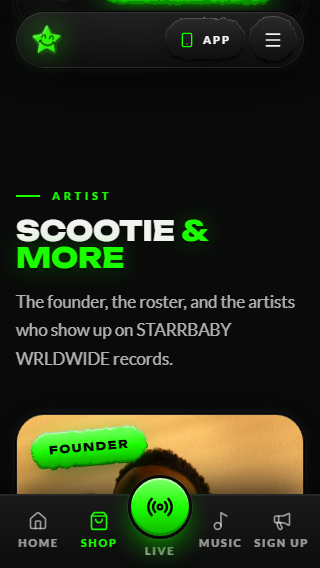
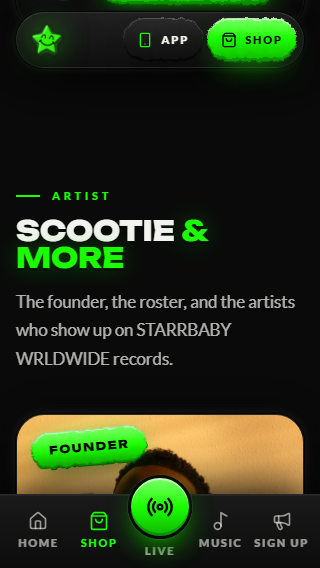
Phone header: App plus Shop, no menu; footer section list only from lg; star shows through the sign up panel; milestones and show merch card removed

Changed region(s): [[0.5, 0.0299, 0.9375, 0.1496], [0.4375, 0.0299, 0.4688, 0.0898]]

diff --git a/src/components/Products.tsx b/src/components/Products.tsx
@@ -1,21 +1,12 @@
 import { useCallback, useMemo, useState } from "react";
-import { ArrowRight, Heart, LayoutGrid, Ruler, Search, Shirt, Sparkles, SwatchBook, Tag } from "lucide-react";
-import { money, shopProducts, showMerch, type ShopProduct } from "@/data/shop";
+import { ArrowRight, Heart, Ruler, Search, SwatchBook, Tag } from "lucide-react";
+import { money, shopProducts, type ShopProduct } from "@/data/shop";
 import { cn } from "@/lib/utils";
 import { ProductSheet } from "./ProductSheet";
 import { Reveal } from "./Reveal";
 import { SectionHeader } from "./SectionHeader";
 
-type Cat = "all" | "tees" | "show";
-
-const cats: { key: Cat; label: string; icon: typeof Shirt }[] = [
-  { key: "all", label: "All", icon: LayoutGrid },
-  { key: "tees", label: "Tees", icon: Shirt },
-  { key: "show", label: "Show merch", icon: Sparkles },
-];
-
 export function Products() {
-  const [cat, setCat] = useState<Cat>("all");
   const [q, setQ] = useState("");
   const [open, setOpen] = useState<ShopProduct | null>(null);
   const [faves, setFaves] = useState<Set<string>>(() => new Set());
@@ -24,21 +15,8 @@ export function Products() {
 
   const query = q.trim().toLowerCase();
   const list = useMemo(
-    () =>
-      shopProducts.filter((p) => {
-        if (cat === "show") return false;
-        if (cat === "tees" && p.category !== "tees") return false;
-        if (!query) return true;
-        return `${p.name} ${p.collection} ${p.color}`.toLowerCase().includes(query);
-      }),
-    [cat, query],
-  );
-  const showList = useMemo(
-    () =>
-      cat === "tees"
-        ? []
-        : showMerch.filter((m) => !query || `${m.name} ${m.blurb}`.toLowerCase().includes(query)),
-    [cat, query],
+    () => shopProducts.filter((p) => !query || `${p.name} ${p.collection} ${p.color}`.toLowerCase().includes(query)),
+    [query],
   );
   const featured = shopProducts.find((p) => p.featured) ?? shopProducts[0];
 
@@ -66,52 +44,21 @@ export function Products() {
         {/* The shop screen: green felt ground, black plush cards, the featured drop in black glass */}
         <Reveal>
           <div className="neu neu-green overflow-hidden !rounded-[2rem] p-3 sm:!rounded-[2.5rem] sm:p-5 lg:p-8">
-            {/* Top bar: search and categories */}
-            <div className="flex flex-col gap-5 lg:flex-row lg:items-center lg:justify-between">
-              <label className="relative block w-full lg:max-w-md">
-                <span className="sr-only">Search the drop</span>
-                <Search className="pointer-events-none absolute left-4 top-1/2 h-4 w-4 -translate-y-1/2 text-fg/45" aria-hidden="true" />
-                <input
-                  type="search"
-                  value={q}
-                  onChange={(e) => setQ(e.target.value)}
-                  placeholder="Find your piece"
-                  className="neu-in h-12 w-full pl-11 pr-4 text-sm font-semibold"
-                />
-              </label>
-              <div className="no-scrollbar -mx-1 flex gap-3 overflow-x-auto px-1 py-1" role="tablist" aria-label="Categories">
-                {cats.map((c) => {
-                  const Icon = c.icon;
-                  const on = cat === c.key;
-                  return (
-                    <button
-                      key={c.key}
-                      type="button"
-                      role="tab"
-                      aria-selected={on}
-                      onClick={() => setCat(c.key)}
-                      className={cn(
-                        "flex shrink-0 flex-col items-center gap-2 rounded-2xl px-3 py-2 text-[0.7rem] font-extrabold uppercase tracking-[0.14em] transition-colors",
-                        on ? "text-fg" : "text-fg/60 hover:text-fg",
-                      )}
-                    >
-                      <span
-                        className={cn(
-                          "neu-xs neu-round flex h-12 w-12 items-center justify-center transition-[color,transform] duration-200",
-                          on ? "neu-neon text-neon" : "text-fg/75",
-                        )}
-                      >
-                        <Icon className="h-5 w-5" aria-hidden="true" />
-                      </span>
-                      {c.label}
-                    </button>
-                  );
-                })}
-              </div>
-            </div>
+            {/* Search */}
+            <label className="relative block w-full lg:max-w-md">
+              <span className="sr-only">Search the drop</span>
+              <Search className="pointer-events-none absolute left-4 top-1/2 h-4 w-4 -translate-y-1/2 text-fg/45" aria-hidden="true" />
+              <input
+                type="search"
+                value={q}
+                onChange={(e) => setQ(e.target.value)}
+                placeholder="Find your piece"
+                className="neu-in h-12 w-full pl-11 pr-4 text-sm font-semibold"
+              />
+            </label>
 
             {/* Featured drop: black glass in a chrome rim */}
-            {cat !== "show" && !query ? (
+            {!query ? (
               <article className="chrome mt-6">
                 <div className="chrome-face grid grid-cols-1 sm:grid-cols-5">
                   <div className="flex flex-col justify-between gap-6 p-6 sm:col-span-3 sm:p-8">
@@ -162,7 +109,7 @@ export function Products() {
             ) : null}
 
             {/* Product grid */}
-            {list.length + showList.length === 0 ? (
+            {list.length === 0 ? (
               <div className="neu-sm mt-6 p-8 text-center">
                 <p className="font-display text-sm font-extrabold uppercase tracking-wide text-fg">Nothing matches &ldquo;{q}&rdquo;</p>
                 <p className="mt-2 text-sm text-fg/60">Try tee, black, white, or Marked.</p>
@@ -234,33 +181,6 @@ export function Products() {
                     </Reveal>
                   );
                 })}
-
-                {showList.map((m, i) => (
-                  <Reveal key={m.id} index={list.length + i} as="li" className="col-span-2 min-w-0 lg:col-span-4">
-                    <article className="neu-sm grid grid-cols-1 gap-4 p-3 sm:grid-cols-5 sm:p-4">
-                      <div className="well-light overflow-hidden rounded-2xl sm:col-span-3">
-                        <img src={m.image} alt={m.imageAlt} width={1440} height={810} loading="lazy" decoding="async" className="h-full w-full object-cover" />
-                      </div>
-                      <div className="flex flex-col justify-between gap-4 px-1 pb-1 sm:col-span-2 sm:py-2">
-                        <div>
-                          <span className="inline-flex items-center gap-1.5 rounded-full bg-neon px-2.5 py-1 text-[0.7rem] font-extrabold uppercase tracking-[0.14em] text-ink">
-                            <Sparkles className="h-3 w-3" aria-hidden="true" /> Show merch
-                          </span>
-                          <h3 className="font-display mt-3 text-base font-extrabold uppercase leading-tight text-fg sm:text-xl">{m.name}</h3>
-                          <p className="mt-2 text-sm leading-relaxed text-fg/65">{m.blurb}</p>
-                        </div>
-                        <button
-                          type="button"
-                          onClick={() => document.getElementById("signup")?.scrollIntoView({ behavior: "smooth" })}
-                          className="btn3d-neon !min-h-11 !py-2.5 !text-[0.7rem]"
-                        >
-                          Hear about the next drop
-                          <ArrowRight className="h-4 w-4" aria-hidden="true" />
-                        </button>
-                      </div>
-                    </article>
-                  </Reveal>
-                ))}
               </ul>
             )}
 

diff --git a/src/components/Nav.tsx b/src/components/Nav.tsx
@@ -1,5 +1,5 @@
 import { useEffect, useState } from "react";
-import { Menu, ShoppingBag, X } from "lucide-react";
+import { ShoppingBag } from "lucide-react";
 import { nav } from "@/data/site";
 import { InstallApp } from "./InstallApp";
 import { useActiveSection } from "@/hooks/useActiveSection";
@@ -7,8 +7,12 @@ import { cn } from "@/lib/utils";
 
 const ids = nav.map((n) => n.id);
 
+/**
+ * Header. Section links from lg up. Below that there is no menu: phones get
+ * the App button and the green Shop button on the right, and the tab bar at
+ * the bottom carries the jumps (owner, 2026-09-29).
+ */
 export function Nav() {
-  const [open, setOpen] = useState(false);
   const [scrolled, setScrolled] = useState(false);
   const active = useActiveSection(ids);
 
@@ -19,25 +23,11 @@ export function Nav() {
     return () => window.removeEventListener("scroll", onScroll);
   }, []);
 
-  useEffect(() => {
-    if (!open) return;
-    const onKey = (e: KeyboardEvent) => e.key === "Escape" && setOpen(false);
-    window.addEventListener("keydown", onKey);
-    document.body.style.overflow = "hidden";
-    return () => {
-      window.removeEventListener("keydown", onKey);
-      document.body.style.overflow = "";
-    };
-  }, [open]);
-
-  const go = (id: string) => {
-    setOpen(false);
-    document.getElementById(id)?.scrollIntoView({ behavior: "smooth", block: "start" });
-  };
+  const go = (id: string) => document.getElementById(id)?.scrollIntoView({ behavior: "smooth", block: "start" });
 
   return (
-    // The header itself never takes a tap. Only the pill and the open sheet do,
-    // so the fixed box can never sit on top of buttons further down the page.
+    // The header itself never takes a tap. Only the pill does, so the fixed
+    // box can never sit on top of buttons further down the page.
     <header
       className="pointer-events-none fixed inset-x-0 z-50 transition-[top] duration-300"
       style={{ top: "var(--live-h, 0px)" }}
@@ -46,16 +36,13 @@ export function Nav() {
         <div
           className={cn(
             "pointer-events-auto flex h-14 items-center justify-between gap-3 rounded-full px-3 pr-2 transition-[background-color,box-shadow,border-color] duration-300 sm:h-16 sm:px-4 sm:pr-2.5",
-            scrolled || open
-              ? "nav-pill rounded-full backdrop-blur-xl"
-              : "border border-transparent bg-transparent",
+            scrolled ? "nav-pill rounded-full backdrop-blur-xl" : "border border-transparent bg-transparent",
           )}
         >
           <a
             href="#top"
             onClick={(e) => {
               e.preventDefault();
-              setOpen(false);
               window.scrollTo({ top: 0, behavior: "smooth" });
             }}
             className="flex min-w-0 items-center gap-2.5"
@@ -107,59 +94,18 @@ export function Nav() {
             <span className="hidden sm:block">
               <InstallApp />
             </span>
+            <span className="block sm:hidden">
+              <button type="button" onClick={() => go("products")} className="btn3d-neon !min-h-10 !px-3 !py-2 !text-[0.7rem]">
+                <ShoppingBag className="h-4 w-4" aria-hidden="true" />
+                Shop
+              </button>
+            </span>
             <span className="hidden sm:block">
               <button type="button" onClick={() => go("products")} className="btn3d-neon !min-h-11 !py-2.5">
                 <ShoppingBag className="h-4 w-4" aria-hidden="true" />
                 Shop
               </button>
             </span>
-            <span className="block lg:hidden">
-              <button
-                type="button"
-                className="btn3d btn3d-icon"
-                aria-expanded={open}
-                aria-controls="mobile-nav"
-                aria-label={open ? "Close menu" : "Open menu"}
-                onClick={() => setOpen((v) => !v)}
-              >
-                {open ? <X className="h-5 w-5" /> : <Menu className="h-5 w-5" />}
-              </button>
-            </span>
-          </div>
-        </div>
-
-        {/* Mobile sheet: absolute under the pill so it never adds to the header's box */}
-        <div
-          id="mobile-nav"
-          className={cn(
-            "absolute inset-x-0 top-full lg:hidden transition-[opacity,transform] duration-300 ease-[cubic-bezier(0.23,1,0.32,1)]",
-            open ? "pointer-events-auto opacity-100 translate-y-0" : "pointer-events-none opacity-0 -translate-y-2",
-          )}
-          aria-hidden={!open}
-        >
-          <div className="container-x">
-            <div className="neu mt-3 p-3">
-              <ul className="grid grid-cols-2 gap-2">
-                {nav.map((n) => (
-                  <li key={n.id} className="min-w-0">
-                    <button
-                      type="button"
-                      onClick={() => go(n.id)}
-                      tabIndex={open ? 0 : -1}
-                      className={cn("btn3d w-full !justify-start !px-4 !text-[0.7rem]", active === n.id && "is-on")}
-                    >
-                      {n.label}
-                    </button>
-                  </li>
-                ))}
-                <li className="col-span-2">
-                  <button type="button" onClick={() => go("products")} tabIndex={open ? 0 : -1} className="btn3d-neon w-full">
-                    <ShoppingBag className="h-4 w-4" aria-hidden="true" />
-                    Shop the drop
-                  </button>
-                </li>
-              </ul>
-            </div>
           </div>
         </div>
       </div>

diff --git a/src/components/About.tsx b/src/components/About.tsx
@@ -86,20 +86,7 @@ export function About() {
               </blockquote>
             </Reveal>
 
-            {/* Milestones */}
-            <ol className="mt-10 grid grid-cols-1 gap-3 sm:grid-cols-2">
-              {about.milestones.map((m, i) => (
-                <Reveal key={m.title} index={i} as="li" className="min-w-0">
-                  <div className="neu-xs neu-lift h-full px-5 py-4">
-                    <p className="eyebrow !text-[0.7rem]">{m.year}</p>
-                    <p className="font-display mt-1 text-[0.8rem] font-bold uppercase leading-tight text-fg">{m.title}</p>
-                    <p className="mt-1.5 text-sm leading-relaxed text-fg/72">{m.body}</p>
-                  </div>
-                </Reveal>
-              ))}
-            </ol>
-
-            <Reveal index={2} className="mt-8">
+            <Reveal index={2} className="mt-10">
               <p className="eyebrow mb-3 !text-fg/50">Inspired by</p>
               <ul className="flex flex-wrap gap-2">
                 {about.influences.map((n) => (

diff --git a/src/components/Footer.tsx b/src/components/Footer.tsx
@@ -36,7 +36,7 @@ export function Footer() {
             <p className="font-display mt-4 text-xs font-bold uppercase tracking-[0.24em] text-neon">{brand.tagline}</p>
           </div>
 
-          <nav className="md:col-span-3" aria-label="Footer sections">
+          <nav className="hidden lg:col-span-3 lg:block" aria-label="Footer sections">
             <p className="eyebrow !text-fg/45">Site</p>
             <ul className="mt-3 space-y-2">
               {nav.map((n) => (
@@ -49,7 +49,7 @@ export function Footer() {
             </ul>
           </nav>
 
-          <div className="md:col-span-4">
+          <div className="md:col-span-7 lg:col-span-4">
             <p className="eyebrow !text-fg/45">Follow</p>
             <ul className="mt-3 grid grid-cols-2 gap-2">
               {socials.map((s) => (

diff --git a/src/components/SignUp.tsx b/src/components/SignUp.tsx
@@ -60,7 +60,7 @@ export function SignUp() {
                 width={800}
                 height={769}
                 loading="lazy"
-                className="pointer-events-none absolute -right-16 -top-16 w-72 rotate-12 opacity-[0.07] sm:w-96"
+                className="pointer-events-none absolute -right-16 -top-16 w-72 rotate-12 opacity-[0.3] sm:w-96"
               />
               <div className="grid grid-cols-1 items-center gap-10 lg:grid-cols-12 lg:gap-14">
                 <div className="min-w-0 lg:col-span-6">
